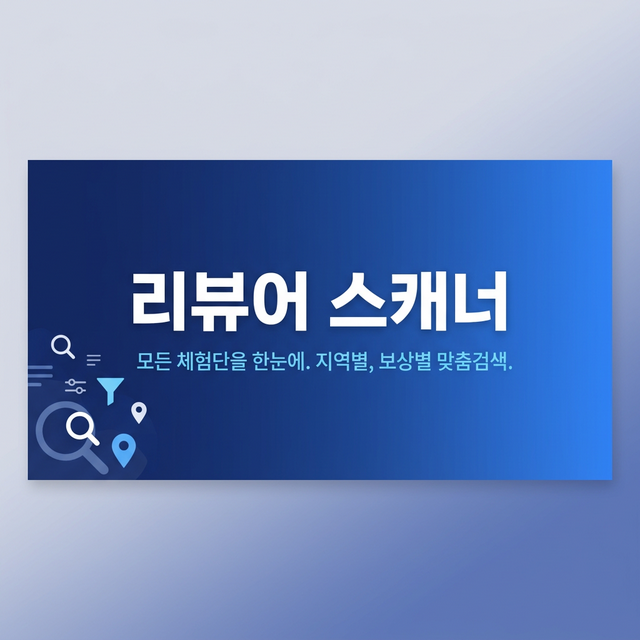
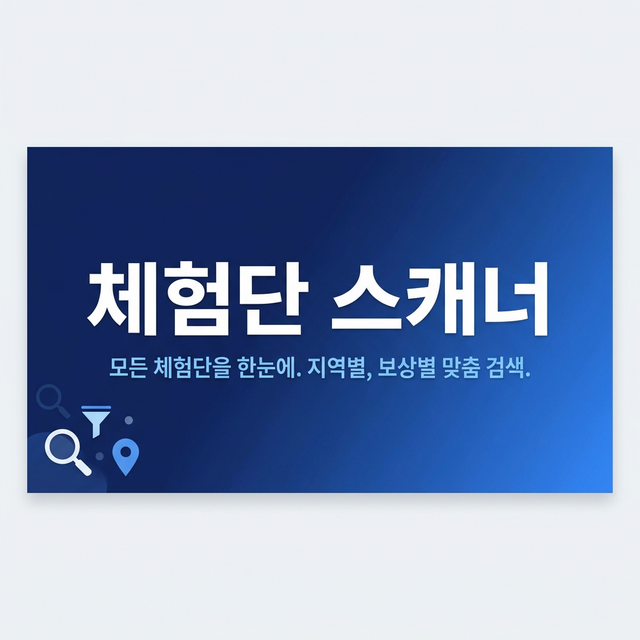
feat: rename 리뷰어스캐너 to 체험단스캐너 across all pages and OG image

diff --git a/app/layout.tsx b/app/layout.tsx
@@ -13,12 +13,12 @@ const geistMono = Geist_Mono({
 });
 
 export const metadata: Metadata = {
-  title: "리뷰어 스캐너 | 모든 체험단을 한눈에",
+  title: "체험단 스캐너 | 모든 체험단을 한눈에",
   description: "모든 체험단을 한눈에. 지역별, 보상별 맞춤 검색으로 최적의 체험단 캠페인을 찾아보세요.",
   openGraph: {
-    title: "리뷰어 스캐너",
+    title: "체험단 스캐너",
     description: "모든 체험단을 한눈에. 지역별, 보상별 맞춤 검색.",
-    siteName: "리뷰어 스캐너",
+    siteName: "체험단 스캐너",
     locale: "ko_KR",
     type: "website",
   },

diff --git a/app/page.tsx b/app/page.tsx
@@ -54,7 +54,7 @@ export default async function Home() {
       <div className="bg-gradient-to-r from-blue-600 to-indigo-700 text-white pb-6 pt-6 md:pb-8 md:pt-8 px-4 overflow-visible">
         <div className="max-w-7xl mx-auto text-center py-1">
           <h1 className="text-2xl md:text-3xl font-extrabold tracking-tight mb-1 md:mb-2">
-            리뷰어 스캐너
+            체험단 스캐너
           </h1>
           {/* 모바일에서는 설명 문구 숨김 */}
           <p className="hidden md:block text-sm md:text-base text-blue-100 max-w-2xl mx-auto">
